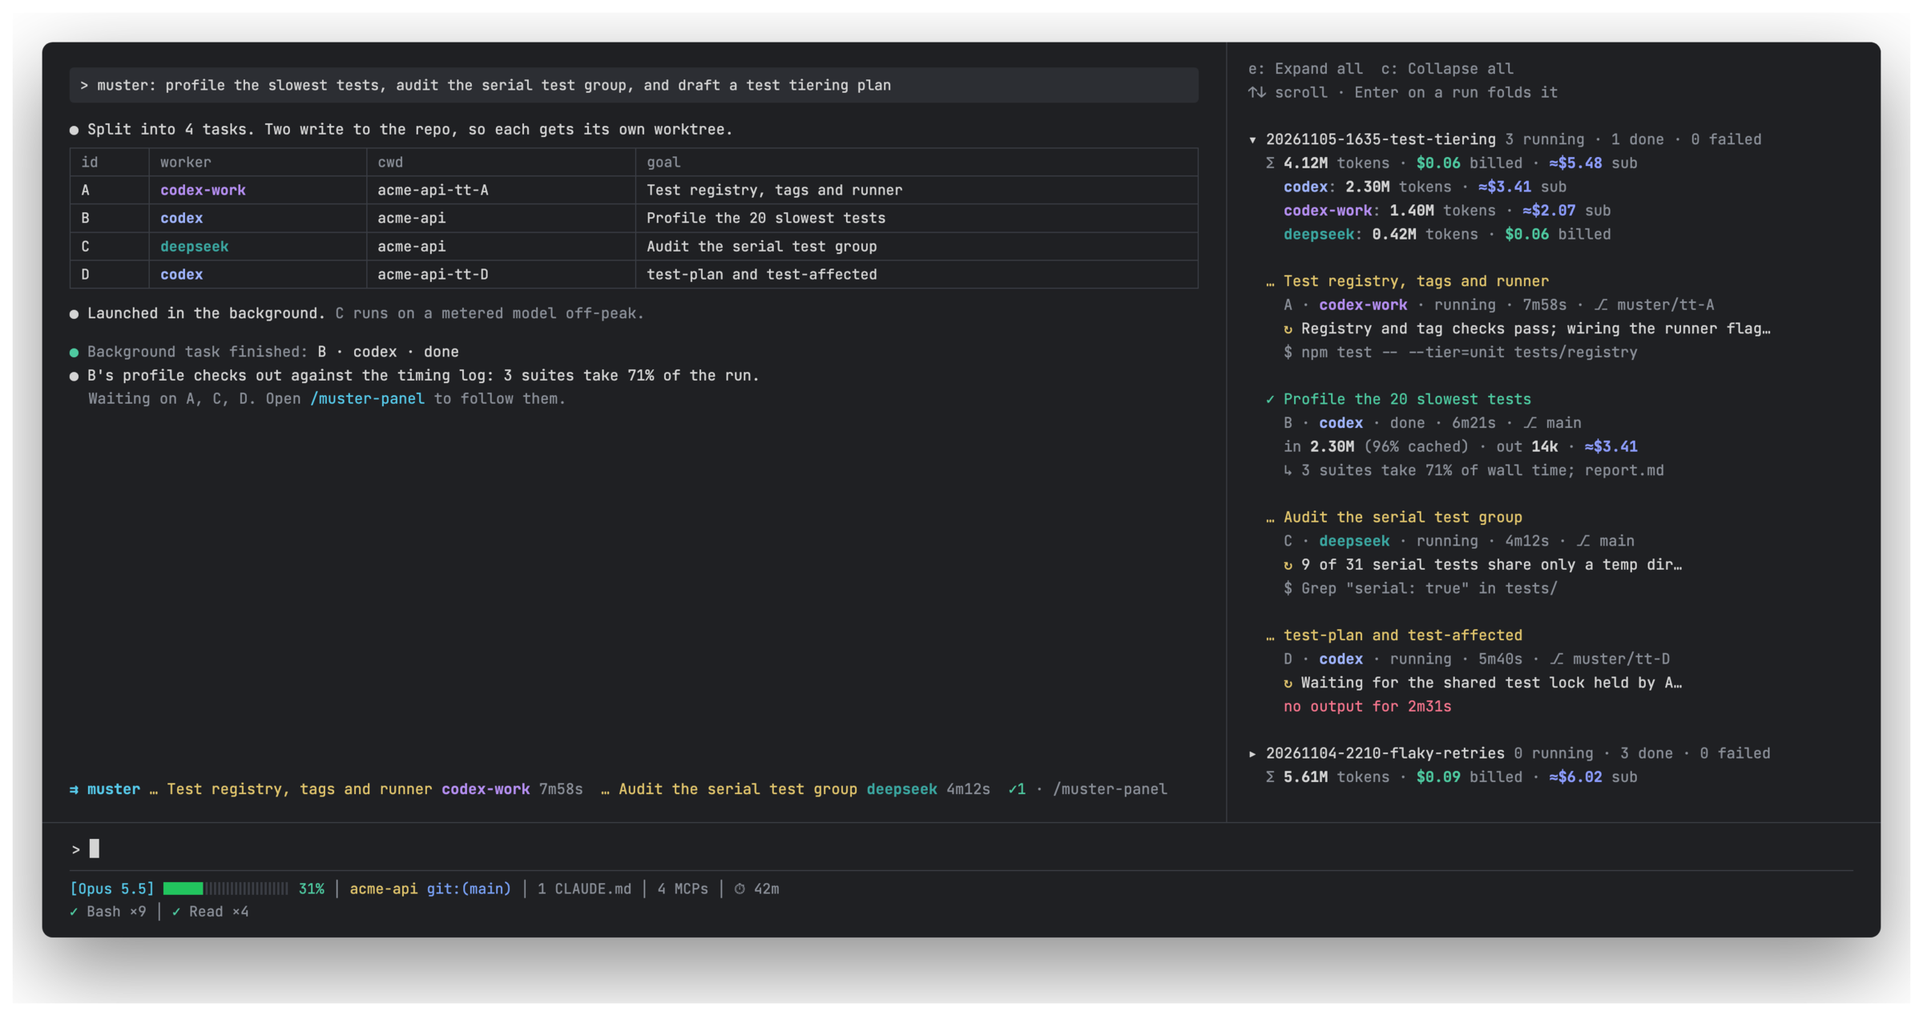
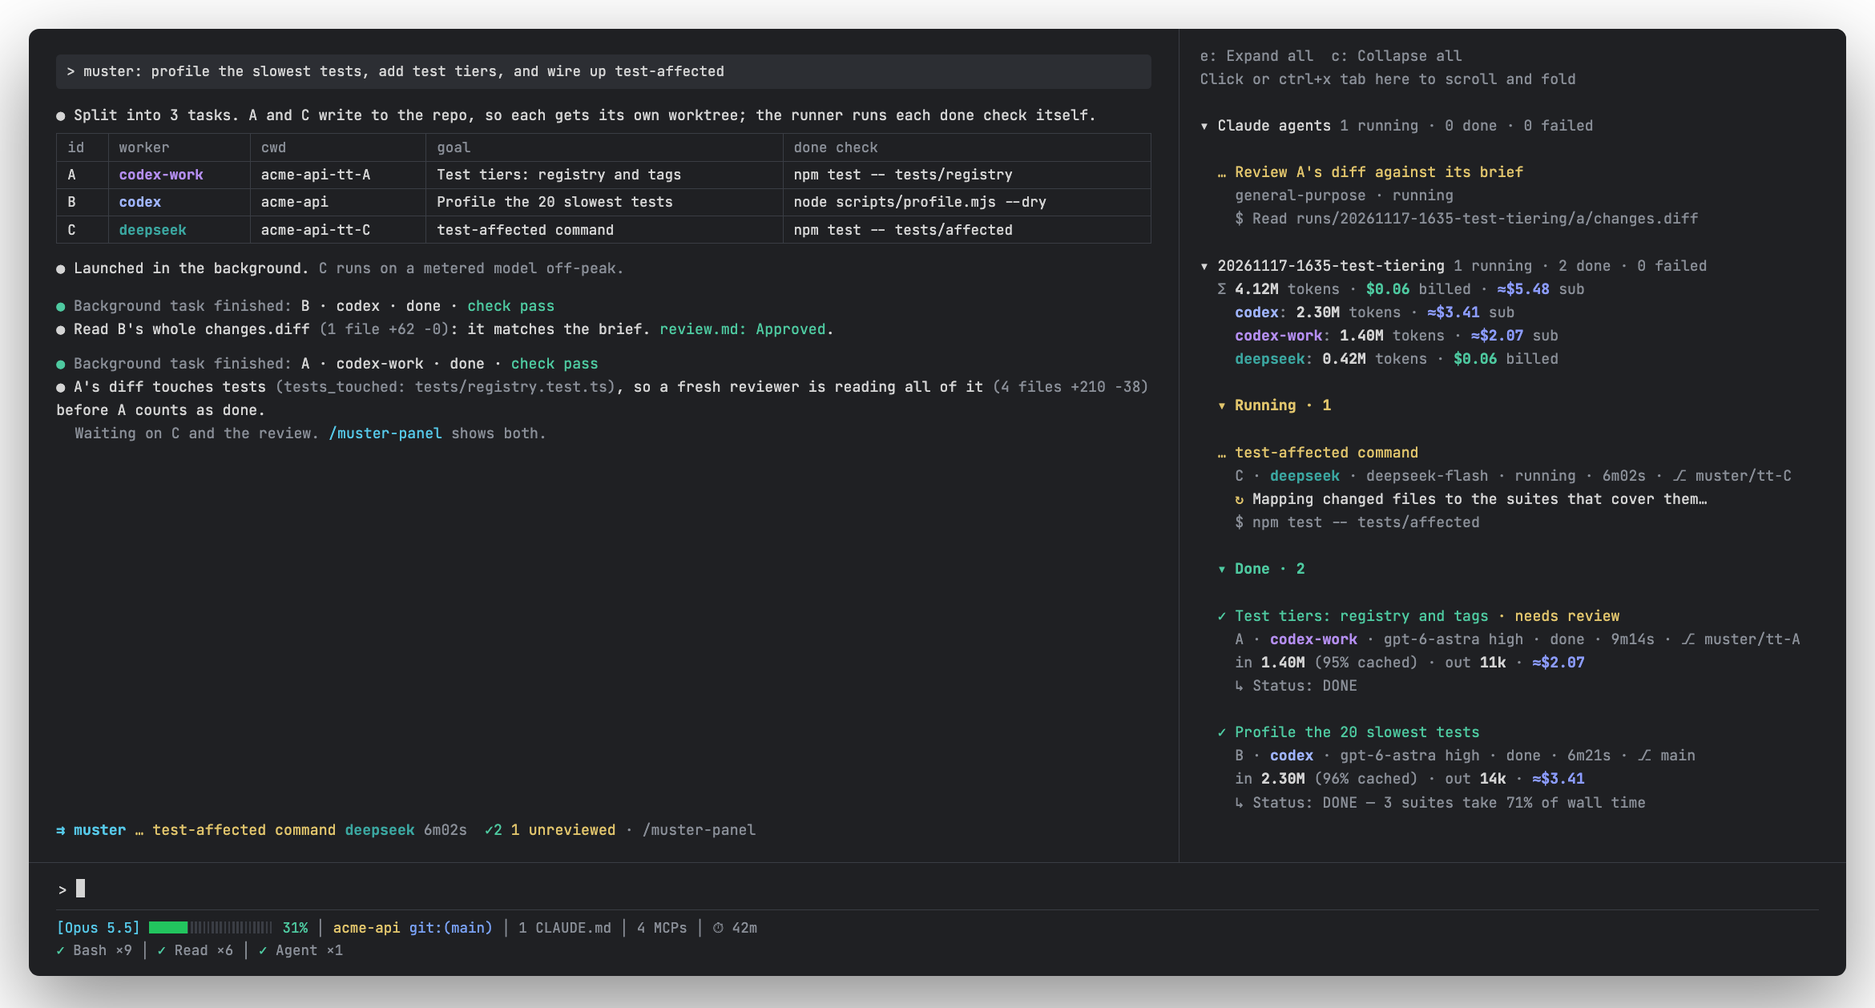
Bring the README, diagrams and screenshot up to date
The README now covers the runner's evidence (changes.diff, --check,
tests_touched, shared_with), the pane's model and needs-review marks,
muster.py clean, what needs review means, its limits, and the automatic
releases. docs/how-it-works.md draws the snapshot, the done check and the
review in a run's sequence and a task's states. The screenshot is redrawn
from assets/screenshot.html to show the current pane and the verify flow.

Claude-Session: https://claude.ai/code/session_01KV43haF3WFznzMmuYhkYAT

diff --git a/assets/screenshot.html b/assets/screenshot.html
@@ -14,7 +14,7 @@
   .bar { height: 40px; display: flex; align-items: center; gap: 8px; padding: 0 16px; background: #1f2030; border-bottom: 1px solid var(--line); }
   .dot { width: 12px; height: 12px; border-radius: 50%; }
   .title { flex: 1; text-align: center; color: var(--dim); font-size: 13px; margin-right: 60px; }
-  .body { display: grid; grid-template-columns: 1fr 620px; height: 740px; }
+  .body { display: grid; grid-template-columns: 1fr 640px; height: 800px; }
   .left { padding: 20px 26px; display: flex; flex-direction: column; border-right: 1px solid var(--line); }
   .right { padding: 14px 20px; background: var(--win); overflow: hidden; }
   .grow { flex: 1; }
@@ -40,58 +40,61 @@
 <body><div class="frame"><div class="win">
   <div class="body">
     <div class="left">
-      <div class="you">&gt; muster: profile the slowest tests, audit the serial test group, and draft a test tiering plan</div>
-      <div><span class="bullet">●</span> Split into 4 tasks. Two write to the repo, so each gets its own worktree.</div>
+      <div class="you">&gt; muster: profile the slowest tests, add test tiers, and wire up test-affected</div>
+      <div><span class="bullet">●</span> Split into 3 tasks. A and C write to the repo, so each gets its own worktree; the runner runs each done check itself.</div>
       <table>
-        <tr><th>id</th><th>worker</th><th>cwd</th><th>goal</th></tr>
-        <tr><td>A</td><td><span class="w1">codex-work</span></td><td>acme-api-tt-A</td><td>Test registry, tags and runner</td></tr>
-        <tr><td>B</td><td><span class="w2">codex</span></td><td>acme-api</td><td>Profile the 20 slowest tests</td></tr>
-        <tr><td>C</td><td><span class="w3">deepseek</span></td><td>acme-api</td><td>Audit the serial test group</td></tr>
-        <tr><td>D</td><td><span class="w2">codex</span></td><td>acme-api-tt-D</td><td>test-plan and test-affected</td></tr>
+        <tr><th>id</th><th>worker</th><th>cwd</th><th>goal</th><th>done check</th></tr>
+        <tr><td>A</td><td><span class="w1">codex-work</span></td><td>acme-api-tt-A</td><td>Test tiers: registry and tags</td><td>npm test -- tests/registry</td></tr>
+        <tr><td>B</td><td><span class="w2">codex</span></td><td>acme-api</td><td>Profile the 20 slowest tests</td><td>node scripts/profile.mjs --dry</td></tr>
+        <tr><td>C</td><td><span class="w3">deepseek</span></td><td>acme-api-tt-C</td><td>test-affected command</td><td>npm test -- tests/affected</td></tr>
       </table>
       <div><span class="bullet">●</span> Launched in the background. <span class="dim">C runs on a metered model off-peak.</span></div>
-      <div style="margin-top:14px"><span class="g">●</span> <span class="dim">Background task finished:</span> B · codex · done</div>
-      <div><span class="bullet">●</span> B's profile checks out against the timing log: 3 suites take 71% of the run.</div>
-      <div class="dim" style="margin-left:18px">Waiting on A, C, D. Open <span class="c">/muster-panel</span> to follow them.</div>
+      <div style="margin-top:14px"><span class="g">●</span> <span class="dim">Background task finished:</span> B · codex · done · <span class="g">check pass</span></div>
+      <div><span class="bullet">●</span> Read B's whole changes.diff <span class="dim">(1 file +62 -0)</span>: it matches the brief. <span class="g">review.md: Approved</span>.</div>
+      <div style="margin-top:10px"><span class="g">●</span> <span class="dim">Background task finished:</span> A · codex-work · done · <span class="g">check pass</span></div>
+      <div><span class="bullet">●</span> A's diff touches tests <span class="dim">(tests_touched: tests/registry.test.ts)</span>, so a fresh reviewer is reading all of it <span class="dim">(4 files +210 -38)</span> before A counts as done.</div>
+      <div class="dim" style="margin-left:18px">Waiting on C and the review. <span class="c">/muster-panel</span> shows both.</div>
       <div class="grow"></div>
-      <pre><span class="c b">⇉ muster </span><span class="y">… Test registry, tags and runner</span> <span class="w1">codex-work</span><span class="dim"> 7m58s  </span><span class="y">… Audit the serial test group</span> <span class="w3">deepseek</span><span class="dim"> 4m12s  </span><span class="g">✓1 </span><span class="dim">· /muster-panel</span></pre>
+      <pre><span class="c b">⇉ muster </span><span class="y">… test-affected command</span> <span class="w3">deepseek</span><span class="dim"> 6m02s  </span><span class="g">✓2 </span><span class="y">1 unreviewed </span><span class="dim">· /muster-panel</span></pre>
     </div>
     <div class="right"><pre><span class="dim">e: Expand all  c: Collapse all</span>
-<span class="dim">↑↓ scroll · Enter on a run folds it</span>
+<span class="dim">Click or ctrl+x tab here to scroll and fold</span>
 
-▾ 20261105-1635-test-tiering <span class="dim">3 running · 1 done · 0 failed</span>
+▾ Claude agents <span class="dim">1 running · 0 done · 0 failed</span>
+
+<span class="y">  … Review A's diff against its brief</span>
+<span class="dim">    general-purpose · running</span>
+<span class="dim">    $ Read runs/20261117-1635-test-tiering/a/changes.diff</span>
+
+▾ 20261117-1635-test-tiering <span class="dim">1 running · 2 done · 0 failed</span>
 <span class="dim">  Σ </span><span class="b">4.12M</span><span class="dim"> tokens · </span><span class="bill">$0.06</span><span class="dim"> billed · </span><span class="sub">≈$5.48</span><span class="dim"> sub</span>
 <span class="dim">    </span><span class="w2">codex</span><span class="dim">: </span><span class="b">2.30M</span><span class="dim"> tokens · </span><span class="sub">≈$3.41</span><span class="dim"> sub</span>
 <span class="dim">    </span><span class="w1">codex-work</span><span class="dim">: </span><span class="b">1.40M</span><span class="dim"> tokens · </span><span class="sub">≈$2.07</span><span class="dim"> sub</span>
 <span class="dim">    </span><span class="w3">deepseek</span><span class="dim">: </span><span class="b">0.42M</span><span class="dim"> tokens · </span><span class="bill">$0.06</span><span class="dim"> billed</span>
 
-<span class="y">  … Test registry, tags and runner</span>
-<span class="dim">    A · </span><span class="w1">codex-work</span><span class="dim"> · running · 7m58s · ⎇ muster/tt-A</span>
-    <span class="y">↻</span> Registry and tag checks pass; wiring the runner flag…
-<span class="dim">    $ npm test -- --tier=unit tests/registry</span>
+<span class="y b">  ▾ Running · 1</span>
+
+<span class="y">  … test-affected command</span>
+<span class="dim">    C · </span><span class="w3">deepseek</span><span class="dim"> · deepseek-flash · running · 6m02s · ⎇ muster/tt-C</span>
+    <span class="y">↻</span> Mapping changed files to the suites that cover them…
+<span class="dim">    $ npm test -- tests/affected</span>
+
+<span class="g b">  ▾ Done · 2</span>
+
+<span class="g">  ✓ Test tiers: registry and tags</span><span class="y"> · needs review</span>
+<span class="dim">    A · </span><span class="w1">codex-work</span><span class="dim"> · gpt-6-astra high · done · 9m14s · ⎇ muster/tt-A</span>
+<span class="dim">    in </span><span class="b">1.40M</span><span class="dim"> (95% cached) · out </span><span class="b">11k</span><span class="dim"> · </span><span class="sub">≈$2.07</span>
+<span class="dim">    ↳ Status: DONE</span>
 
 <span class="g">  ✓ Profile the 20 slowest tests</span>
-<span class="dim">    B · </span><span class="w2">codex</span><span class="dim"> · done · 6m21s · ⎇ main</span>
+<span class="dim">    B · </span><span class="w2">codex</span><span class="dim"> · gpt-6-astra high · done · 6m21s · ⎇ main</span>
 <span class="dim">    in </span><span class="b">2.30M</span><span class="dim"> (96% cached) · out </span><span class="b">14k</span><span class="dim"> · </span><span class="sub">≈$3.41</span>
-<span class="dim">    ↳ 3 suites take 71% of wall time; report.md</span>
-
-<span class="y">  … Audit the serial test group</span>
-<span class="dim">    C · </span><span class="w3">deepseek</span><span class="dim"> · running · 4m12s · ⎇ main</span>
-    <span class="y">↻</span> 9 of 31 serial tests share only a temp dir…
-<span class="dim">    $ Grep "serial: true" in tests/</span>
-
-<span class="y">  … test-plan and test-affected</span>
-<span class="dim">    D · </span><span class="w2">codex</span><span class="dim"> · running · 5m40s · ⎇ muster/tt-D</span>
-    <span class="y">↻</span> Waiting for the shared test lock held by A…
-<span class="r">    no output for 2m31s</span>
-
-▸ 20261104-2210-flaky-retries <span class="dim">0 running · 3 done · 0 failed</span>
-<span class="dim">  Σ </span><span class="b">5.61M</span><span class="dim"> tokens · </span><span class="bill">$0.09</span><span class="dim"> billed · </span><span class="sub">≈$6.02</span><span class="dim"> sub</span>
+<span class="dim">    ↳ Status: DONE — 3 suites take 71% of wall time</span>
 </pre></div>
   </div>
   <div class="foot">
     <div class="prompt">&gt; <span class="cursor"></span></div>
     <div class="status"><span style="color:#56c8e8">[Opus 5.5]</span> <span class="ctx"><i></i></span> <span class="g">31%</span> │ <span class="y">acme-api</span> <span class="tag">git:(main)</span> │ 1 CLAUDE.md │ 4 MCPs │ ⏱ 42m</div>
-    <div class="status"><span class="g">✓</span> Bash ×9 │ <span class="g">✓</span> Read ×4</div>
+    <div class="status"><span class="g">✓</span> Bash ×9 │ <span class="g">✓</span> Read ×6 │ <span class="g">✓</span> Agent ×1</div>
   </div>
 </div></div></body></html>

diff --git a/README.md b/README.md
@@ -20,29 +20,37 @@
 
 You talk to one Claude Code session. Claude splits the job, hands each piece to a worker (a Codex account, Claude Code on another backend such as DeepSeek), checks what comes back, and reports. Muster gives that loop a fixed shape so you stop re-explaining it every session, and puts a pane beside the chat that shows what every worker is doing right now and what it has cost.
 
-<p align="center"><img src="assets/screenshot.png" alt="Claude Code with the Muster pane: a plan table on the left, live task progress, tokens and cost on the right, and the muster band above the prompt" width="100%"></p>
+<p align="center"><img src="assets/screenshot.png" alt="Claude Code with the Muster pane: a plan table with done checks and the review of each finished task on the left; on the right a reviewer subagent at work, live task progress, each task&#39;s model, tokens and cost, and a done task marked needs review; the muster band above the prompt" width="100%"></p>
 
 <details>
 <summary>The same pane as text</summary>
 
 ```text
-▾ 20261105-1635-test-tiering  2 running · 4 done · 0 failed
-  Σ 6.95M tokens · $0.35 billed · ≈$10.14 sub
-    codex-work: 3.66M tokens · ≈$5.17 sub
-    deepseek: 3.29M tokens · $0.35 billed
+▾ Claude agents 1 running · 0 done · 0 failed
 
-  ✓ Tiered tests: registry, tags and runner
-    A · codex-work · done · 10m49s · ⎇ muster/tt-A
-    in 3.65M (97% cached) · out 12k · ≈$5.17
-    ↳ Registry, tag checks and migration list done; report.md
+  … Review A's diff against its brief
+    general-purpose · running
+    $ Read runs/20261117-1635-test-tiering/a/changes.diff
 
-  … Tiered tests: test-plan and test-affected
-    D · codex · running · 9m35s · ⎇ muster/tt-D
-    ↻ Shell and executor tests pass; fixing the /var vs /private/var check, rerunning
-    $ bash tests/run-runtime.sh tests/runtime/developer/developer-entry.test.mjs
+▾ 20261117-1635-test-tiering 1 running · 2 done · 0 failed
+  Σ 4.12M tokens · $0.06 billed · ≈$5.48 sub
+    codex: 2.30M tokens · ≈$3.41 sub
+    codex-work: 1.40M tokens · ≈$2.07 sub
+    deepseek: 0.42M tokens · $0.06 billed
 
-▸ 20261105-1540-test-speed  0 running · 6 done · 0 failed
-  Σ 19.60M tokens · $0.35 billed · ≈$11.50 sub
+  ▾ Running · 1
+
+  … test-affected command
+    C · deepseek · deepseek-flash · running · 6m02s · ⎇ muster/tt-C
+    ↻ Mapping changed files to the suites that cover them…
+    $ npm test -- tests/affected
+
+  ▾ Done · 2
+
+  ✓ Test tiers: registry and tags · needs review
+    A · codex-work · gpt-6-astra high · done · 9m14s · ⎇ muster/tt-A
+    in 1.40M (95% cached) · out 11k · ≈$2.07
+    ↳ Status: DONE
 ```
 
 </details>
@@ -59,16 +67,18 @@ Muster turns that into a habit Claude already knows and a screen you can glance 
 | Parallel edits to one repo | hope they don't collide | one git worktree per task, automatically |
 | "Is it done? Is it stuck?" | switch terminals, read logs | live pane: latest note, latest command, stall warning |
 | "What did that cost?" | guess | tokens and dollars per task, per worker, per run |
-| Trusting the result | read every worker's claims | Claude checks the diffs and tests before reporting |
+| Trusting the result | take the worker's "tests pass" | the runner runs the done check and records exactly what changed; Claude reads the whole diff, and the pane marks what nobody reviewed |
 
 ## Features
 
 - **A `muster` skill.** Plan → isolate → self-contained prompts → launch in the background → run the done check itself (`--check`) → review the whole diff (`changes.diff`, written by the runner) into `review.md`; the pane marks unreviewed tasks → one report table. The same loop every time.
 - **Any number of workers.** Each Codex account is a `codex` worker with its own `CODEX_HOME`; any Claude Code compatible CLI is a `claude` worker. Several tasks can run on one account at once.
 - **Routing you write once.** Per-repo worker priority with quota fallbacks, workers fenced to certain repos, parallel caps. The fences and caps are enforced by the runner, not left to Claude's memory.
-- **A live pane and band.** Task title, worker, elapsed time, the worker's latest note and command, a red warning after 2 minutes of silence, a one-line result, foldable runs — and the session's own Claude subagents, running first, finished ones folded.
+- **Evidence, not claims.** Around each task the runner snapshots the repo and writes `changes.diff` with only that worker's changes, runs the done check itself (`--check`), and flags edits to tests (`tests_touched`) and other tasks in the same repo (`shared_with`). Claude reviews against the brief and records `review.md`.
+- **A live pane and band.** Task title, worker, the model it runs on, elapsed time, the worker's latest note and command, a red warning after 2 minutes of silence, a one-line result, `needs review` on a done task nobody has reviewed, foldable runs — and the session's own Claude subagents, running first, finished ones folded.
 - **Honest cost accounting.** Billed `$` for metered APIs, with DeepSeek's peak-hour price; API-equivalent `≈$` for Codex on a ChatGPT subscription; long-context pricing per request.
 - **Session-bound.** A session sees only the runs it started; `claude --resume` brings them back.
+- **A clean-up list.** `muster.py clean` lists old runs, task worktrees and `muster/*` branches, merged or not, with the command for each; it deletes nothing.
 - **No dependencies.** The runner is one Python file on the standard library.
 
 ## Quick start
@@ -176,6 +186,7 @@ Install and configure Muster (https://github.com/jandyx/muster) for me:
 | `only` | never plans a fenced worker elsewhere | refuses outside its globs (exit 3) |
 | `caps` | passes each task its whole worker list | queues while every listed worker is full, starts on the first to free a slot (priority, then launch order); counts live processes only |
 | `preamble` | adds the lines to every prompt, then the first matching `routing` entry's `preamble` | only its shape (`doctor`) |
+| `--check` | writes a done check for each task and passes it | runs it after the worker, one at a time per `runsDir`; a failing check fails the task |
 
 When a worker fails, `status` reads `failed: <reason>`: the last error line of its log (secrets such as `sk-…` or `Bearer …` masked, cut to 160 characters), or `exit <code>` when there is none. `meta` keeps it as `last_error`, with the log's path as `log_path`, and the pane shows both. A worker that ran out of disk shows `failed: disk full (ENOSPC), …` and its `result.md` ends with the command to rerun it.
 
@@ -262,6 +273,13 @@ The runner stopped it before it started: exit 3 means every worker it was given 
 </details>
 
 <details>
+<summary><b>What does "needs review" mean?</b></summary>
+
+The task finished, but nobody has approved its `changes.diff` yet. It clears when `review.md` in the task folder has `Verdict: Approved` and the `changes_sha256` from `meta`, so a review of an older diff does not count. Muster never merges; it only shows what was taken on trust.
+
+</details>
+
+<details>
 <summary><b>I resumed a session and the pane is empty.</b></summary>
 
 Runs are tied to the session id that started them. `claude --resume` keeps the id; `--fork-session` and `/clear` start a new one, so earlier runs stay on disk but leave the pane.
@@ -275,6 +293,7 @@ Runs are tied to the session id that started them. `claude --resume` keeps the i
 - While a `claude` worker is thinking, its `↻` note stays on the previous line.
 - A Claude agent's latest tool call is kept in memory: a plugin reload forgets it until that agent calls another tool.
 - The pane shows the last 30 runs of the current session.
+- `changes.diff` cannot tell who made a change: edits you make by hand in the same repo while a worker runs land in its diff (other muster tasks are named in `shared_with`). A large untracked, un-ignored folder makes the snapshot slow.
 
 ## Contributing
 
@@ -283,8 +302,10 @@ Issues and pull requests are welcome. Coding agents: read [AGENTS.md](AGENTS.md)
 ```bash
 claude plugin validate .                  # manifest, hooks module, marketplace
 claude plugin test .                      # pane and band
-python3 -m unittest discover -s tests     # runner, pricing, fences and caps
+python3 -W error::ResourceWarning -m unittest discover -s tests   # runner, pricing, fences, caps, snapshots
 ```
+
+Releases are automatic: a merge to `main` that changes what the plugin runs bumps the version and publishes a release. Label the pull request `major`, `minor` or `patch` (no label means minor).
 
 ## License
 

diff --git a/docs/how-it-works.md b/docs/how-it-works.md
@@ -13,7 +13,7 @@ flowchart LR
     runner -- "codex exec<br/>CODEX_HOME=…" --> cx1[Codex worker]
     runner -- "codex exec" --> cx2[Codex worker 2]
     runner -- "claude -p<br/>stream-json" --> ds[Claude-compatible worker<br/>e.g. DeepSeek]
-    cx1 & cx2 & ds --> runs[("runs/&lt;run&gt;/&lt;task&gt;/<br/>prompt · status · meta<br/>log · result · usage")]
+    cx1 & cx2 & ds --> runs[("runs/&lt;run&gt;/&lt;task&gt;/<br/>prompt · status · meta<br/>log · result · usage<br/>changes.diff · check.txt · review.md")]
     prices[(prices.json)] -.-> runner
     runs --> pane["Muster pane (/muster-panel)<br/>+ band above prompt"]
     pane --> you
@@ -31,7 +31,8 @@ sequenceDiagram
     U->>C: "muster: do A, B and C"
     C->>C: plan table, worktrees, prompt.md per task
     par one background Bash per task
-        C->>R: run codex-work A
+        C->>R: run codex-work A --check "npm test …"
+        R->>R: snapshot the repo
         R->>W: codex exec (prompt on stdin)
     and
         C->>R: run deepseek B
@@ -41,10 +42,12 @@ sequenceDiagram
         P->>P: read status · log / stream · usage
     end
     W-->>R: exit
-    R->>R: usage from rollout / result event, priced
+    R->>R: snapshot again → changes.diff · model · usage, priced
+    R->>R: run the done check → check.txt (a failure fails the task)
     R-->>C: background task finished
-    C->>C: read result.md, check the diff and tests
-    C->>U: report: results · usage · verification · next steps
+    C->>C: read the whole changes.diff (or a fresh reviewer does), review against the brief
+    C->>C: write review.md, findings → follow-up task -r2
+    C->>U: report: results · usage · verified · next steps
 ```
 
 A task's life, as the pane shows it:
@@ -55,9 +58,10 @@ stateDiagram-v2
     running --> running: ↻ new note / $ new command
     running --> quiet: no output for 2 min
     quiet --> running: output again
-    running --> done: exit 0
-    running --> failed: exit ≠ 0
-    done --> [*]
+    running --> done: exit 0 and check passes
+    running --> failed: exit ≠ 0, or check fails
+    done --> reviewed: review.md approves this changes.diff
+    reviewed --> [*]
     failed --> running: Claude reruns it (same or next worker)
 ```
 
@@ -67,15 +71,17 @@ What the pane reads for each task:
 flowchart TB
     subgraph task["runs/&lt;run&gt;/&lt;task&gt;/"]
         prompt["prompt.md<br/># title"]
-        meta["meta<br/>worker · type · cwd · session · started · finished"]
+        meta["meta<br/>worker · model · cwd · session · started · finished<br/>changes · changes_sha256"]
         status[status]
         live["log.txt (codex)<br/>stream.jsonl (claude)"]
         usage["usage<br/>tokens · usd · billing · peak"]
         result[result.md]
+        review[review.md]
     end
     prompt --> row1["✓ / … / ✗  title"]
     status --> row1
-    meta --> row2["id · worker · status · elapsed · ⎇ branch"]
+    meta --> row2["id · worker · model · status · elapsed · ⎇ branch"]
+    review --> row1b["· needs review (until it approves this diff)"]
     usage --> row3["in 3.65M (97% cached) · out 12k · ≈$5.17"]
     live --> row4["↻ latest note<br/>$ latest command<br/>no output for … (stall)"]
     result --> row5["↳ one-line result"]
